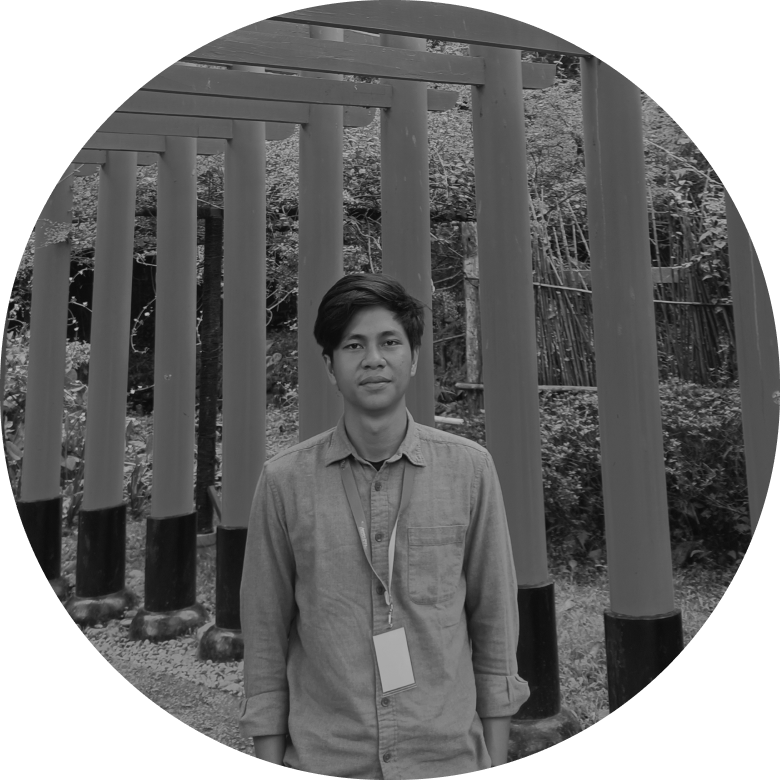
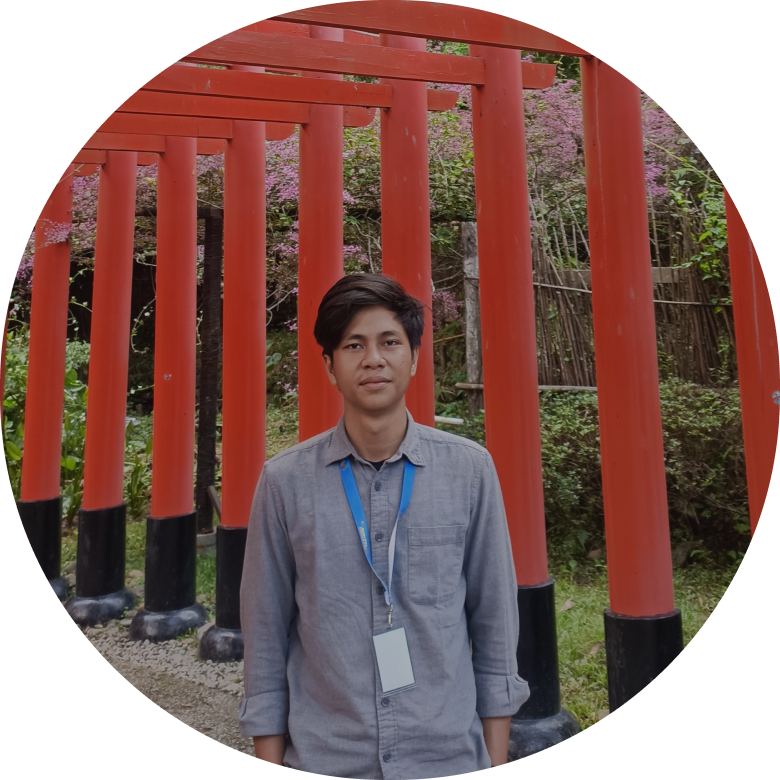
Feat: About

diff --git a/src/components/about.jsx b/src/components/about.jsx
@@ -1,8 +1,10 @@
 "use client";
 
 import SocialMedia from "@/items/socialMedia";
+import Tech from "@/items/tech";
 import { Urbanist } from "next/font/google";
 import Image from "next/image";
+import Marquee from "react-fast-marquee";
 
 const urbanist = Urbanist({
   subsets: ["latin"],
@@ -13,7 +15,10 @@ const urbanist = Urbanist({
 const About = () => {
   return (
     <>
-      <div id="about" className="w-full max-w-7xl mx-auto px-4 sm:px-6 lg:px-8">
+      <div
+        id="about"
+        className="w-full overflow-hidden max-w-7xl mx-auto px-4 sm:px-6 lg:px-8"
+      >
         <div
           className={`${urbanist.className} w-full flex items-center justify-between mt-[70px] mb-[50px]`}
         >
@@ -29,21 +34,42 @@ const About = () => {
           className="flex flex-wrap items-center justify-center"
         >
           <div>
-            <p className="text-white text-[38px] font-medium">
+            <p className={`${urbanist.className} text-white text-[30px]`}>
               Hi, I am Verlino! I'm a Backend Engineer with 2 years of web
               development experience with the past 2 years spent honing my
               skills in Laravel, Node js, Golang, and Optimizations.
             </p>
           </div>
           <div className="grid grid-cols-1 md:grid-cols-3 my-11">
-            <p className="text-white text-[38px] col-span-2">
+            <p
+              className={`${urbanist.className} text-white text-[30px] col-span-2`}
+            >
               I understand the importance of a Fast, Optimal, and Reliable
               system, pride myself on producing high-quality websites, and I'm
               comfortable working solo or as part of a team.
             </p>
-            <Image src="/profile-picture.png" width={390} height={390} />
+            <Image
+              className="grayscale hover:grayscale-0 transition-all duration-500 delay-100 cursor-pointer"
+              src="/profile-picture.png"
+              width={390}
+              height={390}
+              alt="profile-picture"
+            />
           </div>
         </div>
+      </div>
+      {/* Tech Stack */}
+      <div className="w-full flex justify-center my-7">
+        <Marquee pauseOnHover={true} gradient={false}>
+          <Tech technology="Laravel" image="/tech/laravel-icon.png" />
+          <Tech technology="Golang" image="/tech/golang-icon.png" />
+          <Tech technology="Node Js" image="/tech/node-icon.png" />
+          <Tech technology="Next Js" image="/tech/nextjs-icon.png" />
+          <Tech technology="React Js" image="/tech/reactjs-icon.png" />
+          <Tech technology="Kotlin" image="/tech/kotlin-icon.png" />
+          <Tech technology="Tailwind" image="/tech/tailwind-icon.png" />
+          <Tech technology="Java" image="/tech/java-icon.png" />
+        </Marquee>
       </div>
     </>
   );

diff --git a/src/components/navbar.jsx b/src/components/navbar.jsx
@@ -41,18 +41,25 @@ const Navbar = () => {
           {/* Responsive Toggle */}
           <div className="lg:hidden flex items-center">
             <button
-              className="inline-flex items-center justify-center p-2 rounded-md text-white focus:outline-none focus:ring-2 focus:ring-inset focus:ring-white"
+              className="inline-flex w-auto items-center justify-center p-2 rounded-md text-white focus:outline-none focus:ring-2 focus:ring-inset focus:ring-white"
               onClick={toggleNavbar}
             >
               {isClick ? (
                 <Image
+                  priority={false}
                   width={24}
                   height={24}
                   src="/close-menu.svg"
                   alt="menu"
                 />
               ) : (
-                <Image width={24} height={24} src="/menu.svg" alt="menu" />
+                <Image
+                  priority={false}
+                  width={24}
+                  height={24}
+                  src="/menu.svg"
+                  alt="menu"
+                />
               )}
             </button>
           </div>

diff --git a/src/items/tech.jsx b/src/items/tech.jsx
@@ -1,0 +1,23 @@
+import { Urbanist } from "next/font/google";
+import Image from "next/image";
+
+const urbanist = Urbanist({
+  subsets: ["latin"],
+  display: "swap",
+  weight: ["200", "400", "700"],
+});
+
+const Tech = (props) => {
+  const { technology, image } = props;
+
+  return (
+    <div className="w-full h-full border border-gray-500 grid grid-cols-1 py-[40px] cursor-pointer grayscale hover:grayscale-0 text-gray-500 hover:text-white font-bold transition-all">
+      <div className="mx-auto text-center">
+        <img className="w-full" src={image} alt={`${technology} + ".png"`} />
+        <p className={`${urbanist.className} text-lg pt-3`}>{technology}</p>
+      </div>
+    </div>
+  );
+};
+
+export default Tech;

diff --git a/src/components/jumbotron.jsx b/src/components/jumbotron.jsx
@@ -41,10 +41,10 @@ const Jumbotron = () => {
           <div
             data-aos="fade-up"
             data-aos-duration="2500"
-            className={`${urbanist.className} font-semibold text-white mt-8 mx-auto hover:rotate-45`}
+            className={`${urbanist.className} font-semibold text-white mt-8 mx-auto`}
           >
             <a
-              href="https://wa.me/6285703218543"
+              href="mailto:verlinorayafajri@mail.ugm.ac.id"
               className="lg:py-[11px] lg:px-[32px] md:py-[8px] md:px-[20px] py-[5px] px-[10px] lg:text-[16px] text-xs border rounded-full hover:bg-white hover:text-black transition-all"
             >
               Say hi 👋

diff --git a/src/items/logo.jsx b/src/items/logo.jsx
@@ -7,12 +7,14 @@ const inter = Inter({
 
 const Logo = () => {
   return (
-    <div style={{ fontSize: "23px" }} className={`${inter.className}`}>
-      <h1 className="text-white text-[30px] font-bold">
-        VerlinoFajri
-        <span style={{ color: "#D46868" }}>.</span>
-      </h1>
-    </div>
+    <a href="/">
+      <div className={`${inter.className} text-[23pxs]`}>
+        <h1 className="text-white text-[30px] font-bold">
+          VerlinoFajri
+          <span style={{ color: "#D46868" }}>.</span>
+        </h1>
+      </div>
+    </a>
   );
 };
 
